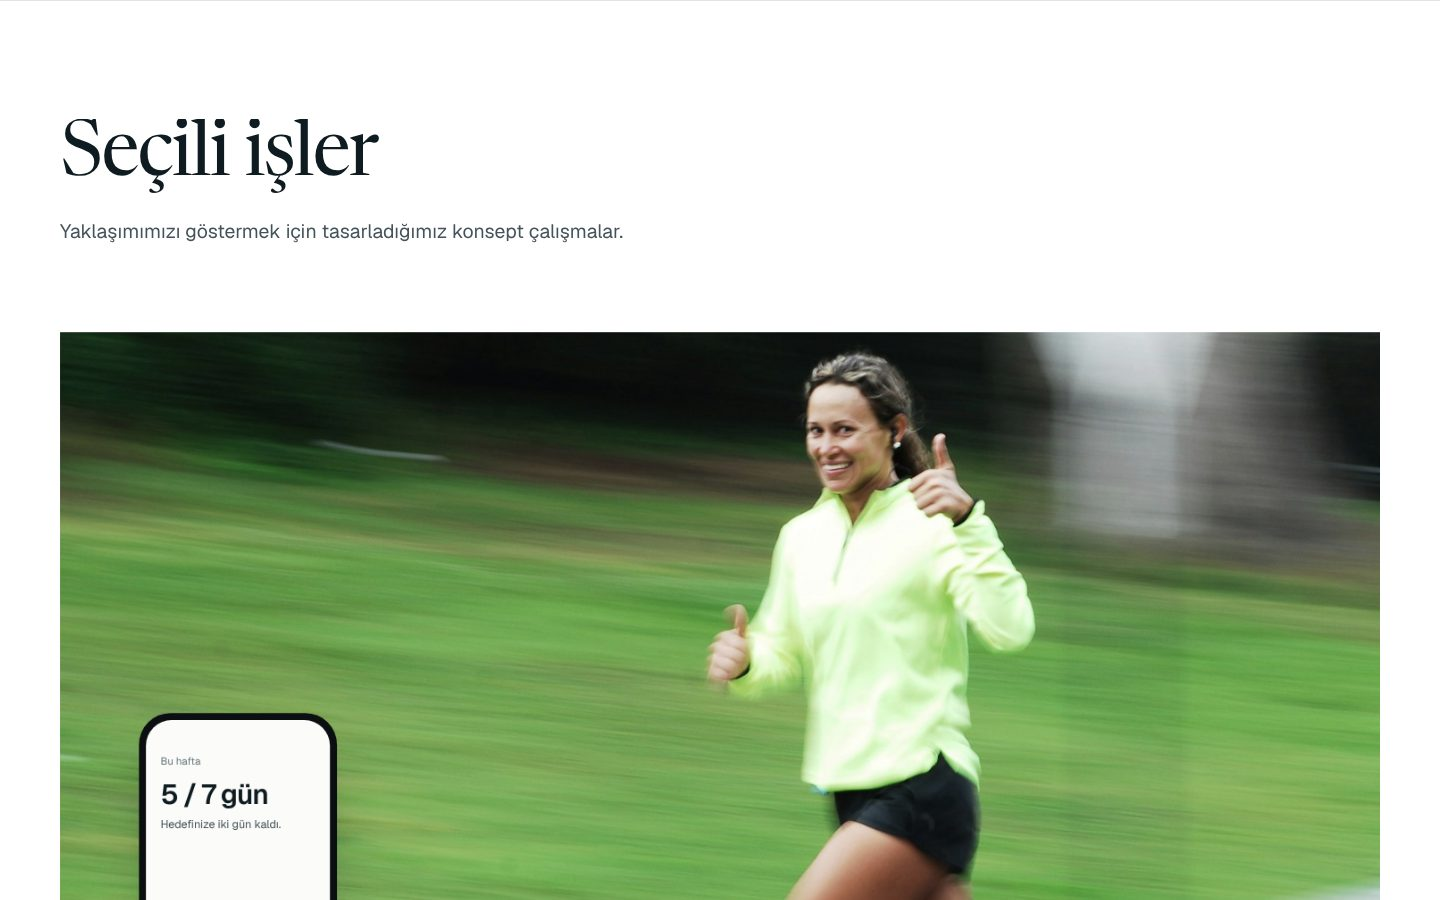
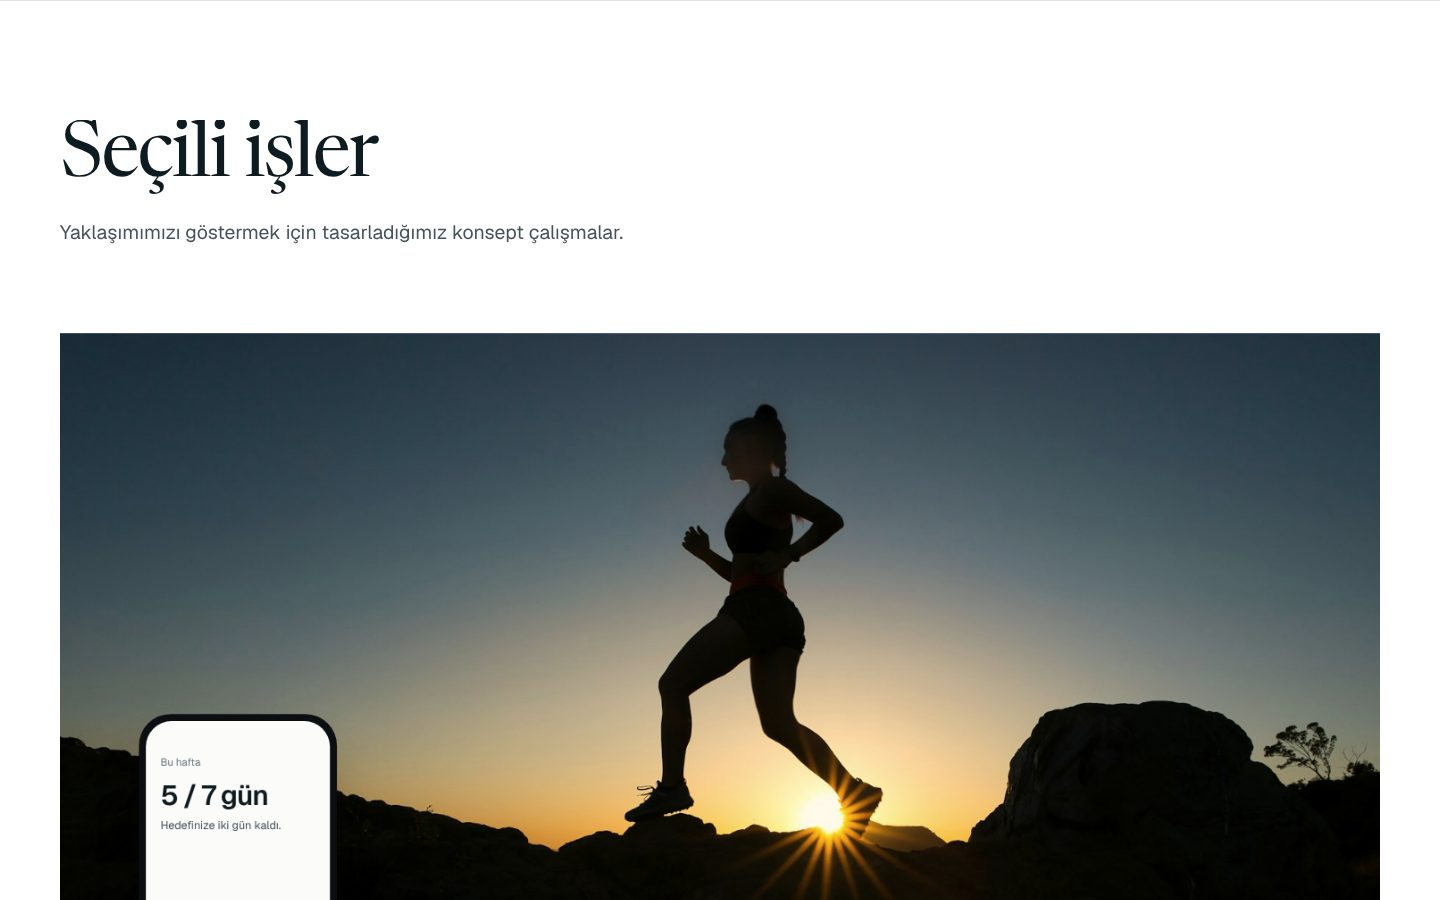
any4: seçili işler fotoğrafları yenilendi

diff --git a/02-Websites/projects/any4/any4-web-sitesi.md b/02-Websites/projects/any4/any4-web-sitesi.md
@@ -35,6 +35,7 @@ related: ["[[00-Musteriler/any4/marka-brief]]", "[[05-Kod-Projeleri/any4/any4-we
 6. Footer.
 
 ![[03-Assets/images/any4/ekran-goruntuleri/masaustu-02-isler.jpg]]
+![[03-Assets/images/any4/ekran-goruntuleri/masaustu-02b-isler.jpg]]
 ![[03-Assets/images/any4/ekran-goruntuleri/masaustu-03-hizmetler.jpg]]
 ![[03-Assets/images/any4/ekran-goruntuleri/masaustu-04-surec.jpg]]
 ![[03-Assets/images/any4/ekran-goruntuleri/masaustu-05-neden-any4.jpg]]
@@ -67,3 +68,8 @@ Tam sayfa görüntüler:
 - İlk yazı tipleri "hata mesajı gibi" bulundu. Seçenek C seçildi: Newsreader + Geist.
 - Bölümler arası boşluklar eşitlendi; iletişim satırlarındaki çizgiler kaldırıldı.
 - Logo: 4 artık "any"nin üstüne zıplamıyor; top yanına yuvarlanıp taban çizgisinde duruyor (19 Ekim 2026).
+- Seçili işler fotoğrafları değişti (2 Kasım 2026, yayın öncesi): eski fotoğraflarda yüzü tanınan kişiler ve laptopta Samsung logosu vardı; model izni olmadan "bu kişiler uygulamamızı kullanıyor" gibi okunabileceği için yüzsüz, logosuz, koyu/sinematik bir set seçildi. Hepsi Unsplash ücretsiz lisans:
+  - Ada: https://unsplash.com/photos/woman-running-on-rocky-trail-I1EWTM5mFEM
+  - Rota: https://unsplash.com/photos/person-cycling-on-city-street-8i9ETArAeto
+  - Asistan: https://unsplash.com/photos/person-using-smartphone-BjhUu6BpUZA
+  - Kurye için ilk beğenilen fotoğrafın çantasında teslimat firması logosu olduğu için alınmadı.
